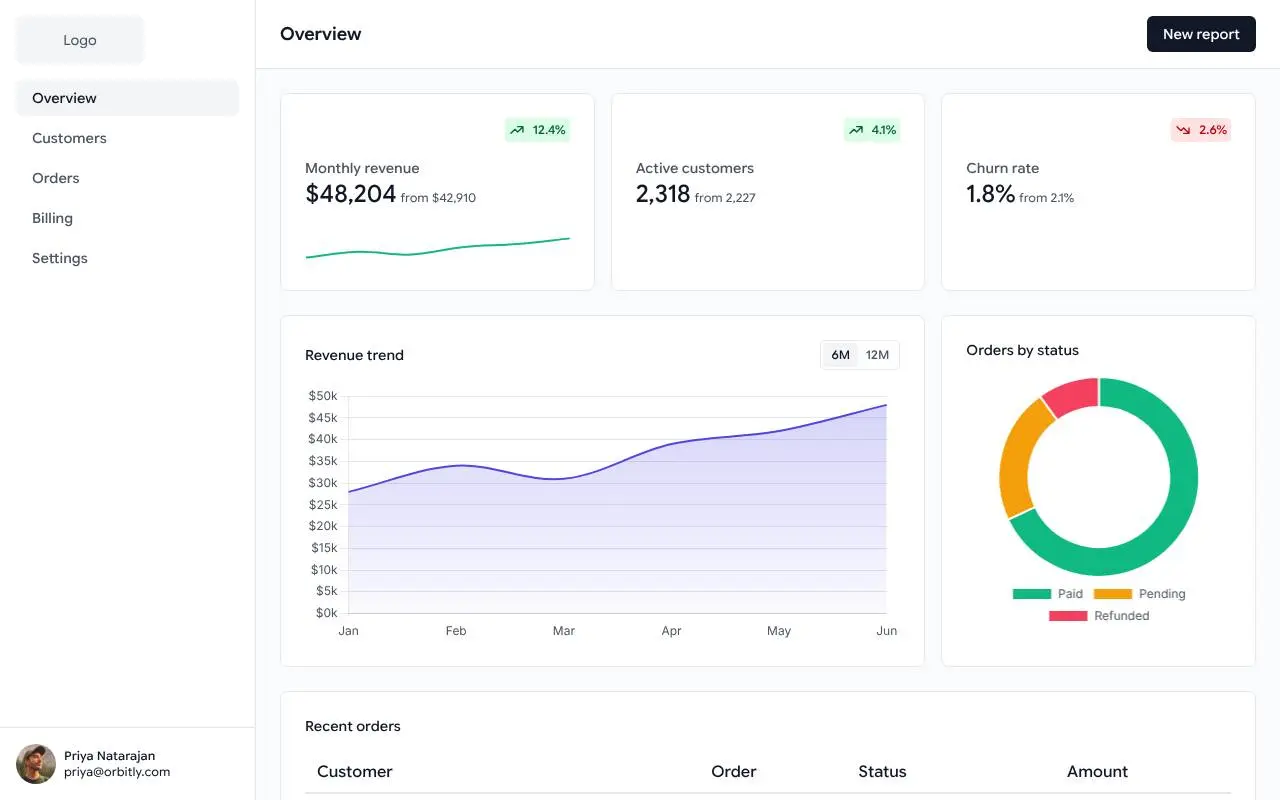
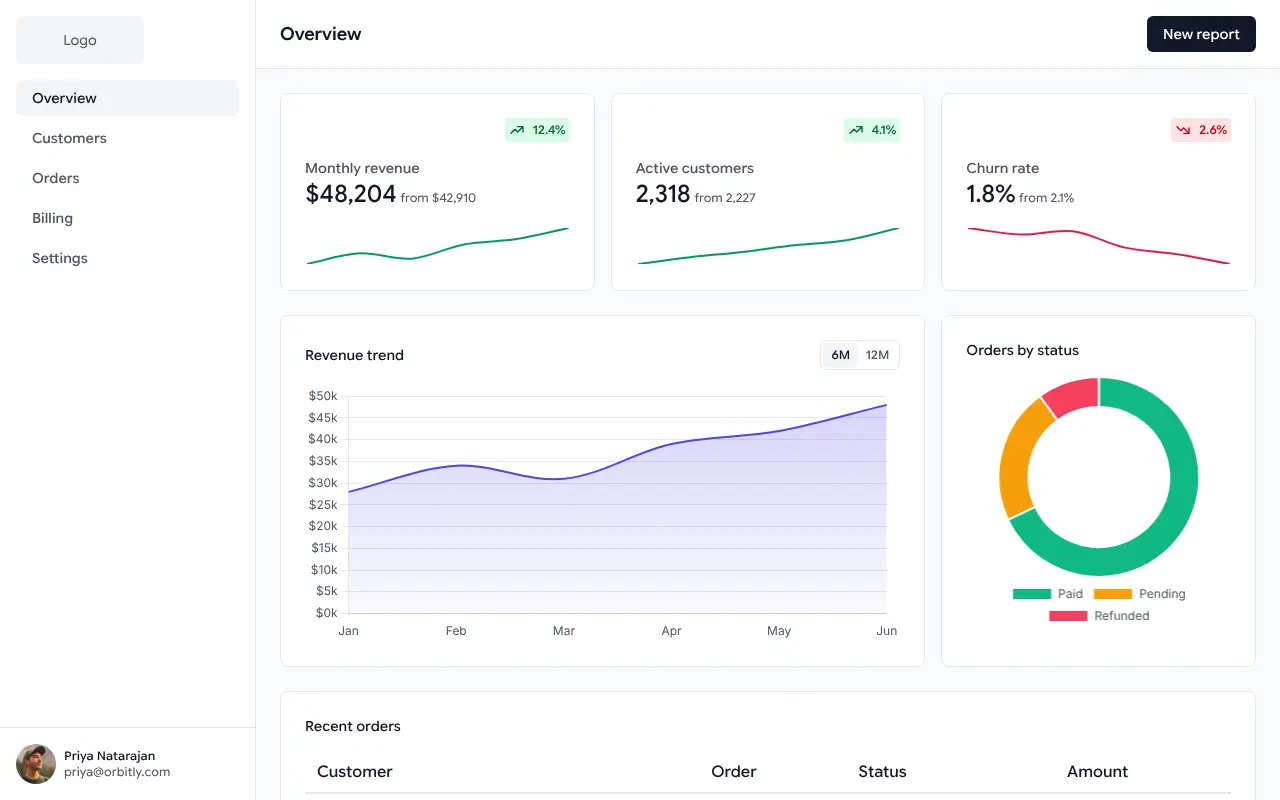
Update - Regenerate the analytics dashboard thumbnail and drop the checker from the plan
Claude-Session: https://claude.ai/code/session_019DfRDCGWPhSZSHk2e9Y1Nv

diff --git a/docs/reviews/2026-11-15-product-critique.md b/docs/reviews/2026-11-15-product-critique.md
@@ -167,7 +167,7 @@ Also done:
 
 - **Focus:** templates come first.
 - **Cuts:** only remove pages and variants once the copy counts confirm it.
-- **Dark mode generator:** keep it, and turn it into a "Hemingway for Tailwind" checker (paste markup, get accessibility, RTL and dark mode findings with fixes) with an AI angle.
+- **Checker:** dropped (2026-11-21). It was going to replace the dark mode generator page. The generator page stays as it is, and its engine keeps backing `pnpm dark`. The checker engine (#809) stays in the repo, unused.
 - **FAQs:** stay in the header.
 - **Hero ad:** stays in the hero, beside the pitch.
 - **Media and grids:** no dark mode.
@@ -214,12 +214,11 @@ The first export from the `hyperui_copies` dataset covers 3.7 days: **401 copies
      3. ~~**Form layouts:** sectioned settings forms like the Settings page, built from the existing inputs.~~ (done, 3 variants)
      4. ~~**Stats with a sparkline:** a stats variant matching the Overview cards.~~ (done, stats 7 and 8, Chart.js)
 
-     All four gaps are filled, and the analytics dashboard is rebuilt from them: the shell and page header on every page, sparkline stats on Overview, initials avatars on Customers, and the form layouts on Settings. Its card screenshot still shows the old Overview, so regenerate it with `pnpm thumbnails analytics-dashboard` where the photos can load.
+     All four gaps are filled, and the analytics dashboard is rebuilt from them: the shell and page header on every page, sparkline stats on Overview, initials avatars on Customers, and the form layouts on Settings. Its card screenshot is regenerated.
 
    - Count page views per template alongside copies, so a template nobody copies can be told apart from one nobody finds.
    - Run `pnpm thumbnails <slug>` for each new template card.
 2. **Agents:**
    - Split the agent export by user agent, and include `/examples/*`. This is the AI signal to track, not Copy for AI counts, which are 7% of copies.
    - Ship the MCP server and a published skill, sooner rather than later: humans on the site aren't asking for AI-formatted output. The `pnpm dark` engine could back an MCP tool or CLI.
-3. **The checker:** the engine is done (#809). The page, retiring the generator page and the MCP server are planned in `docs/plans/2026-11-18-tailwind-checker.md`, paused while the focus moves to what the analytics show.
-4. **Cuts:** let the copy data run 3–4 weeks, then review the cut and trim lists in section 4 using unique copies. The first four days already point at form controls, pricing variants and most of the charts.
+3. **Cuts:** let the copy data run 3–4 weeks, then review the cut and trim lists in section 4 using unique copies. The first four days already point at form controls, pricing variants and most of the charts.

diff --git a/docs/plans/2026-11-18-tailwind-checker.md b/docs/plans/2026-11-18-tailwind-checker.md
@@ -1,6 +1,6 @@
 # Plan: Tailwind checker
 
-_Status: engine shipped (#809). Page and clean-up not started. Paused while the focus shifts to what the analytics show._
+_Status: dropped on 2026-11-21. The engine shipped (#809) and stays in the repo. The page, retiring the generator page and the MCP server won't be built. Kept as a record of what was planned._
 
 ## What it is
 
